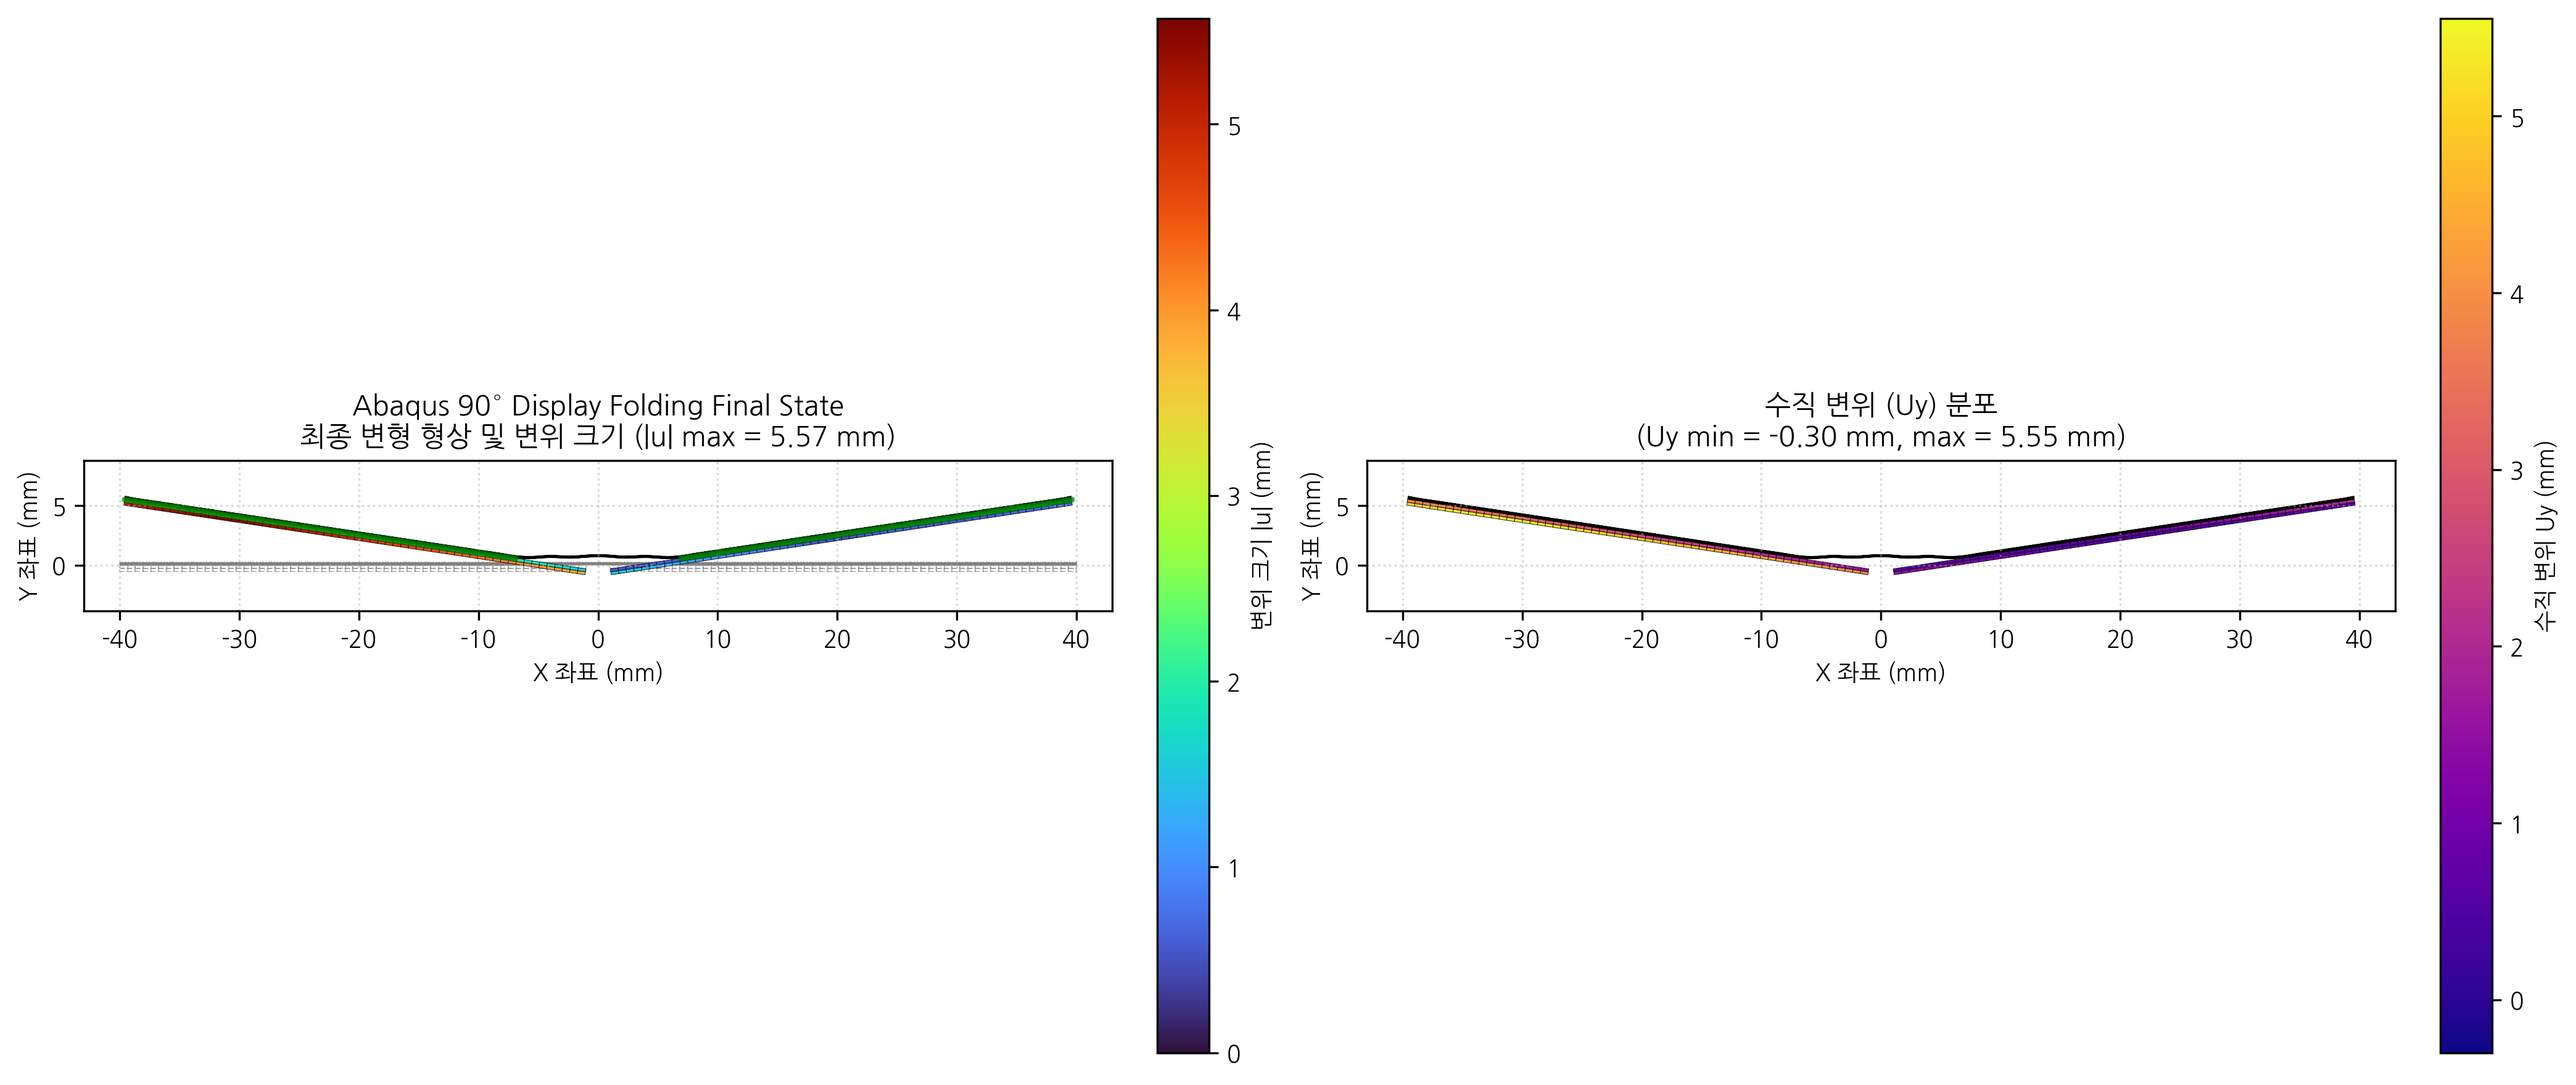
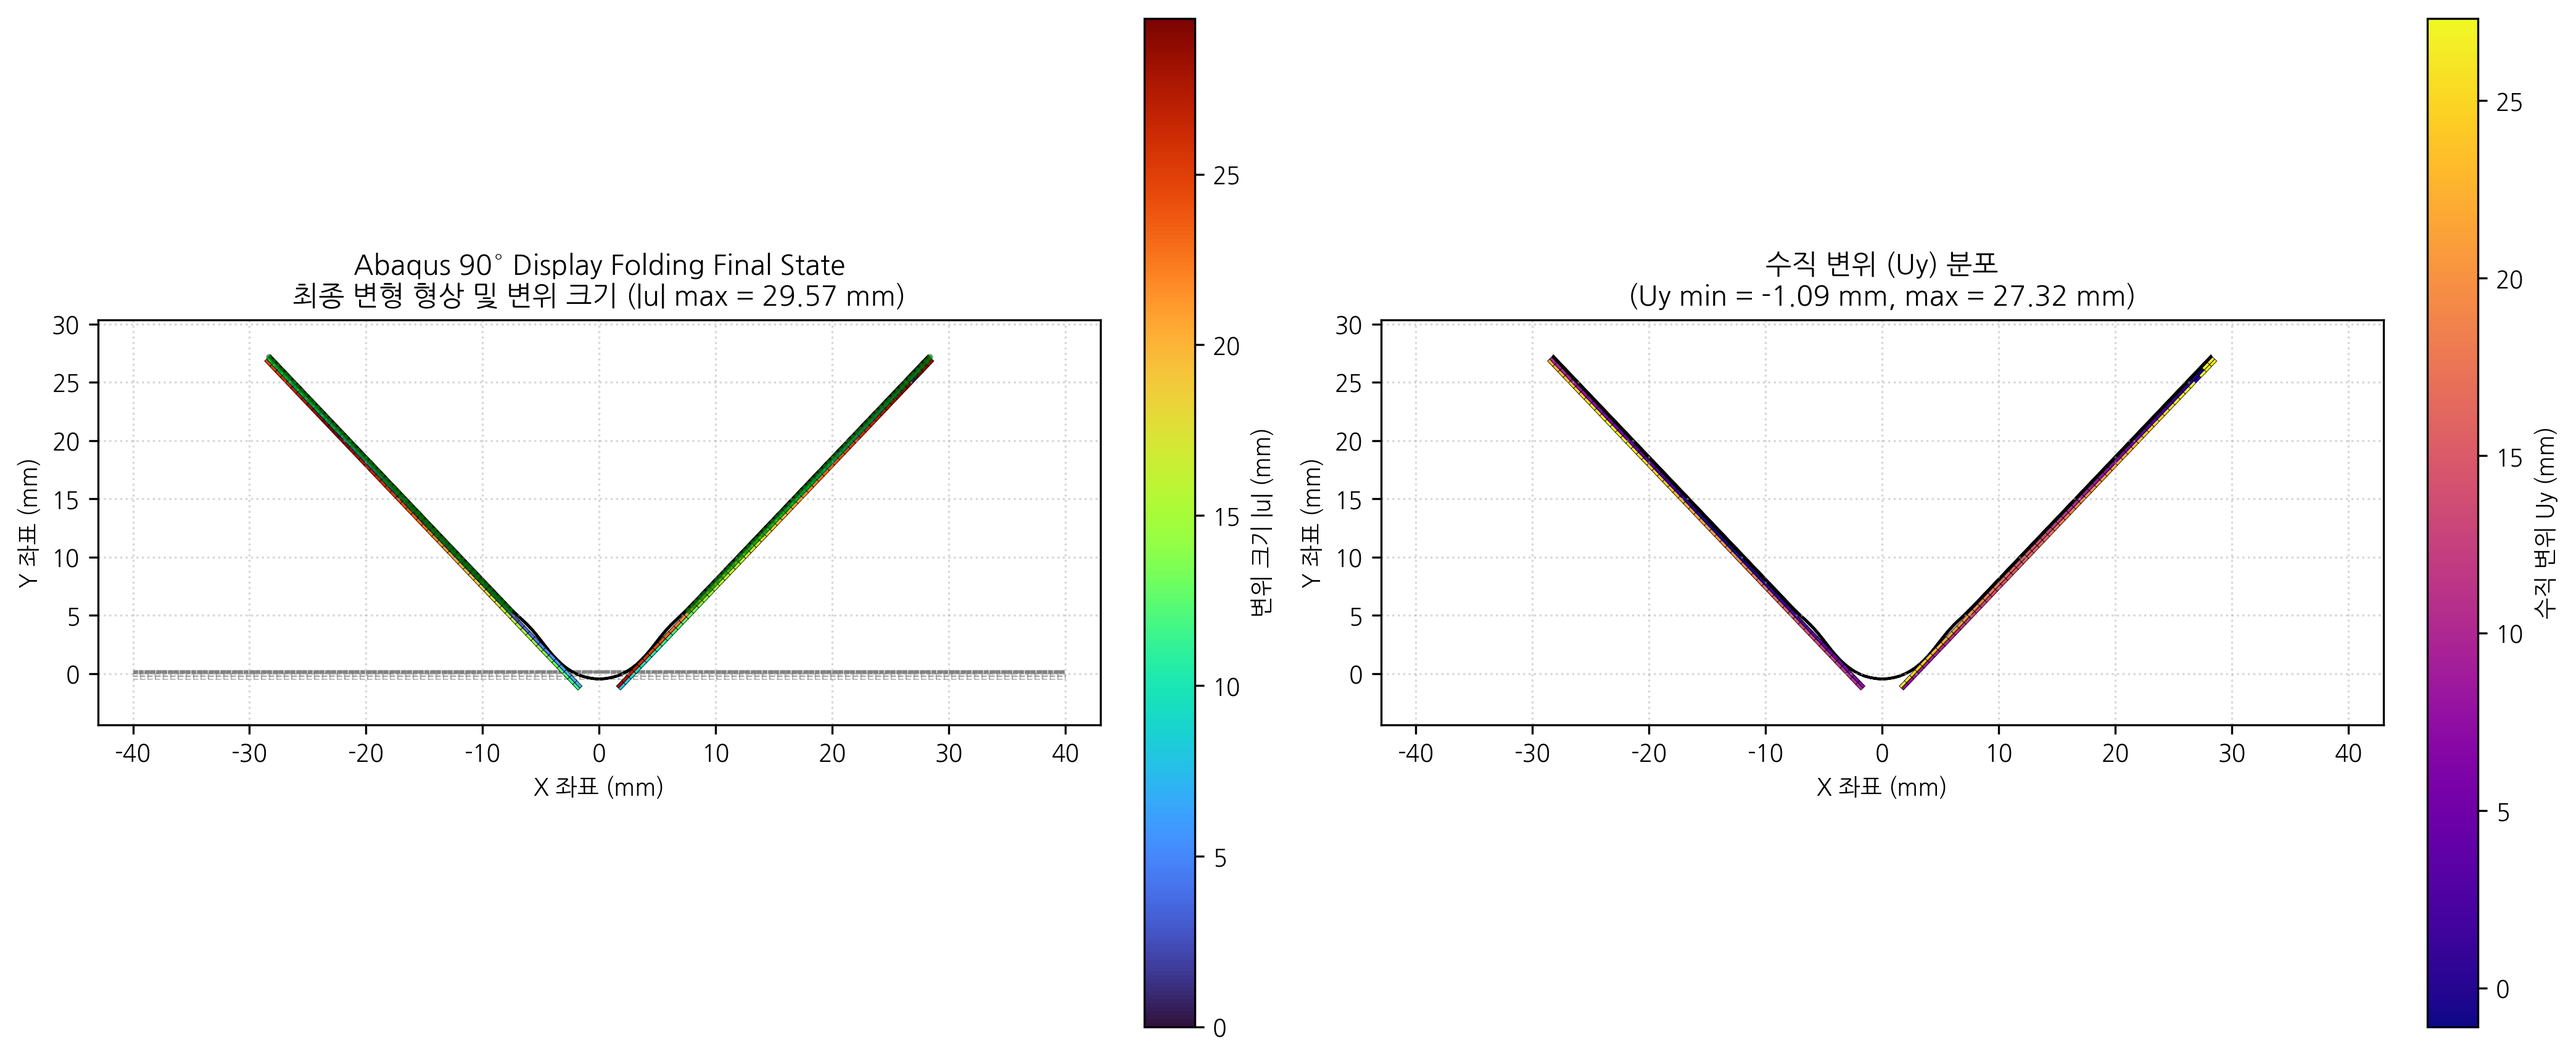
fix: SRI element variational-consistency bug, JAX AOT cache SIGILL risk, geometry config tweaks
Root cause chain, found via a background Opus investigation triggered by a
pure-moment elastica benchmark showing Q4_COROTATIONAL_SRI converging to a
mesh-refinement-independent 62% tip-position error (vs exact elastica
solution) despite passing a rigid-rotation patch test and running stably
in the full production fold model:

1. verification/element_backends.py::make_solver never routed
   Q4_COROTATIONAL_SRI (or the other SRI/hybrid element names) into the
   J2Plasticity + dict-element_type form that DynamicSolver's corotational
   JAX vmap dispatch requires (dynamic.py gates that dispatch on
   isinstance(material, J2Plasticity)). The benchmark was silently
   measuring plain Q4 B-bar + NeoHookean, not the requested element at
   all -- same silent-fallthrough failure class already documented in
   AGENTS.md. Fixed: added Q4_COROTATIONAL_SRI/Q4_SRI/hybrid names to the
   routing tuple.

2. Real formulation bug in dispsolver/element/q4_sri_jax.py, found once
   the benchmark actually exercised the element: the local SRI kernel
   built its deformation gradient F from full-Gauss-point shape-function
   gradients for ALL entries, fed that to the material for stress, but
   then swapped only the SHEAR ROW of the B-matrix used to project stress
   back to nodal forces to use centroid gradients. The B-matrix used for
   the residual therefore did not equal dE/du for the F actually fed to
   the material -- the residual was not the gradient of any energy
[…]

diff --git a/dispsolver/element/q4_sri_jax.py b/dispsolver/element/q4_sri_jax.py
@@ -16,9 +16,51 @@ import jax
 import jax.numpy as jnp
 from typing import Tuple
 
-from .q4_eas_jax import _jac, _sd, _BL_columns
+from .q4_eas_jax import _jac, _sd
 from .q4_corotational_jax import compute_element_rotation, build_block_rotation
 from ..material.plastic_jax import tangent_voigt_jax
+
+
+def _F_sri(ux, uy, gX, gY, gX0, gY0):
+    """SRI deformation gradient: normal terms at the Gauss point, the two
+    shear (off-diagonal) terms at the element centroid.
+
+    Same convention as ``q4_sri_hybrid_jax.compute_element_energy_sri_hybrid``
+    and the small-strain ``q4_sri_numba`` kernel.
+    """
+    return jnp.array([
+        [1.0 + ux @ gX, ux @ gY0],
+        [uy @ gX0,      1.0 + uy @ gY],
+    ], dtype=jnp.float64)
+
+
+def _BL_sri_columns(Ft, gX, gY, gX0, gY0):
+    """Exact ``dE/du`` for the SRI kinematics above (3x8).
+
+    E = 1/2 (Ft^T Ft - I) with Ft = _F_sri(...).  Each entry of Ft is
+    differentiated w.r.t. the shape-function gradient it was actually
+    built from, which is what makes the residual the gradient of a
+    potential.  Reduces to the classic Hughes (1980) selective B in the
+    small-strain limit Ft -> I: rows 0/1 use the Gauss-point gradients,
+    row 2 uses the centroid gradients.
+    """
+    F00, F01 = Ft[0, 0], Ft[0, 1]
+    F10, F11 = Ft[1, 0], Ft[1, 1]
+    B = jnp.zeros((3, 8), dtype=jnp.float64)
+    for a in range(4):
+        gx, gy = gX[a], gY[a]
+        gx0, gy0 = gX0[a], gY0[a]
+        # dE_11
+        B = B.at[0, 2 * a].set(F00 * gx)
+        B = B.at[0, 2 * a + 1].set(F10 * gx0)
+        # dE_22
+        B = B.at[1, 2 * a].set(F01 * gy0)
+        B = B.at[1, 2 * a + 1].set(F11 * gy)
+        # d(2 E_12)
+        B = B.at[2, 2 * a].set(F00 * gy0 + F01 * gx)
+        B = B.at[2, 2 * a + 1].set(F10 * gy + F11 * gx0)
+    return B
+
 
 _S3 = jnp.sqrt(3.0)
 _SRI_GP2 = jnp.array([
@@ -62,20 +104,18 @@ def compute_sri_j2_contributions_jax(
 
         ux = u_elem[0::2]
         uy = u_elem[1::2]
-        Hc = jnp.array([[ux @ gX, ux @ gY], [uy @ gX, uy @ gY]])
-        F_local = jnp.eye(2, dtype=jnp.float64) + Hc
+        # The SRI strain measure itself must be built from the mixed
+        # sampling -- sampling only the *projection* operator B at the
+        # centroid while feeding the material a full-Gauss-point F leaves
+        # the locking shear inside the stress and makes the residual
+        # non-integrable (dR/du non-symmetric => Newton converges to an
+        # equilibrium of no potential at all).
+        F_local = _F_sri(ux, uy, gX, gY, gX0, gY0)
 
         S_v, C_v, sn = tangent_voigt_jax(F_local, state_elem[k], lam, mu, sigma_y0, H)
         state_new = state_new.at[k].set(sn)
 
-        BL_full = _BL_columns(F_local, gX, gY)
-        BL_centroid = _BL_columns(F_local, gX0, gY0)
-
-        # SRI B-matrix: rows 0,1 from full GP, row 2 (shear) from centroid
-        BL_sri = jnp.zeros((3, 8), dtype=jnp.float64)
-        BL_sri = BL_sri.at[0, :].set(BL_full[0, :])
-        BL_sri = BL_sri.at[1, :].set(BL_full[1, :])
-        BL_sri = BL_sri.at[2, :].set(BL_centroid[2, :])
+        BL_sri = _BL_sri_columns(F_local, gX, gY, gX0, gY0)
 
         w = detJ * _SRI_W2[k] * thickness
         f_local = f_local + BL_sri.T @ S_v * w

diff --git a/dispsolver/_jit_cache.py b/dispsolver/_jit_cache.py
@@ -17,13 +17,29 @@ without being traced arguments (e.g. q4_reduced_jax.py's `_ALPHA_HG`,
 q4_eas_jax.py's `_ALPHA_MAX`) -- changing one of those doesn't always
 change the function's bytecode/jaxpr hash in a way the cache notices.
 
-Two independent controls, both read once at import time:
+Controls, all read once at import time:
 
-- `DISPFOLD_JIT_CACHE` (default "1"): set to "0" to disable on-disk
-  caching entirely -- every process start recompiles from scratch. Use
-  this in CI/deployment pipelines where reproducible, cache-free builds
-  matter more than startup speed, or when debugging a suspected stale-
-  cache issue.
+- `DISPFOLD_JIT_CACHE` (default "1"): set to "0" to disable Numba's
+  on-disk caching entirely -- every process start recompiles from
+  scratch. Use this in CI/deployment pipelines where reproducible,
+  cache-free builds matter more than startup speed, or when debugging a
+  suspected stale-cache issue.
+- `DISPFOLD_JAX_CACHE` (default "0", i.e. OFF -- opt-in only): JAX's
+  persistent compilation cache stores CPU-feature-targeted AOT-compiled
+  code (XLA:CPU AOT). Observed in practice: loading a cache entry
+  compiled for a different CPU feature set than the executing host logs
+  "Target machine feature ... not supported on the host machine ...
+  could lead to execution errors such as SIGILL" -- this is an XLA-level
+  warning, not a code-version problem, and neither the version tag nor
+  the platform tag below catches it (both machines can report the same
+  `platform.machine()` and Python version while still having different
+  CPU instruction-set extensions, e.g. AVX-512 variants). Numba's cache
+  has no equivalent failure mode (it caches LLVM-compiled-for-host code,
+  recompiled per-host at first use, not cross-host AOT snapshots), which
+  is why it defaults on while this defaults off. Set to "1" only after
+  confirming every machine that will load the cache has an identical CPU
+  feature set to the one that built it (e.g. a homogeneous deployment
+  fleet), or accept the SIGILL risk knowingly.
 - `DISPFOLD_CACHE_VERSION` (default "v1"): a manual cache-busting tag.
   The cache directory path includes this string, so bumping it (e.g. to
   "v2") after changing a module-level constant inside a jitted function
@@ -49,6 +65,7 @@ import platform
 import functools
 
 _CACHE_ENABLED = os.environ.get("DISPFOLD_JIT_CACHE", "1") not in ("0", "false", "False")
+_JAX_CACHE_ENABLED = os.environ.get("DISPFOLD_JAX_CACHE", "0") not in ("0", "false", "False")
 _CACHE_VERSION = os.environ.get("DISPFOLD_CACHE_VERSION", "v1")
 
 _REPO_ROOT = os.path.abspath(os.path.join(os.path.dirname(__file__), ".."))
@@ -126,7 +143,7 @@ def configure_jax_cache():
     No-op if DISPFOLD_JIT_CACHE=0.
     """
     global _jax_cache_configured
-    if _jax_cache_configured or not _CACHE_ENABLED:
+    if _jax_cache_configured or not _JAX_CACHE_ENABLED:
         return
     import jax
 

diff --git a/dispsolver/solver/dynamic.py b/dispsolver/solver/dynamic.py
@@ -1008,9 +1008,20 @@ class DynamicSolver:
                                 _single_coro.__name__ = "sri_hybrid_wrapper"
                             elif elem_t in ("Q4_COROTATIONAL_SRI", "Q4_SRI"):
                                 from ..element.q4_sri_jax import compute_corotational_sri_j2_contributions_jax
-                                _single_coro = lambda coords, u_e, s, _lam=lam, _mu=mu, _sy0=sigma_y0, _H=H: compute_corotational_sri_j2_contributions_jax(
-                                    coords, u_e, s, _lam, _mu, _sy0, _H, 1.0,
-                                )
+                                # compute_corotational_sri_j2_contributions_jax returns a
+                                # 4-tuple (f, K, state_new, None) -- the trailing None was
+                                # never consumed anywhere; the dispatch site that calls this
+                                # vmap unpacks exactly 3 values (matching every other
+                                # element type here), so this was never actually exercised
+                                # end-to-end before (ValueError: too many values to unpack).
+                                # Drop the trailing None here, same pattern already used for
+                                # the HYBRID_SRI wrapper immediately above.
+                                def _single_coro(coords, u_e, s, _lam=lam, _mu=mu, _sy0=sigma_y0, _H=H):
+                                    f, K, state_new, _ = compute_corotational_sri_j2_contributions_jax(
+                                        coords, u_e, s, _lam, _mu, _sy0, _H, 1.0,
+                                    )
+                                    return f, K, state_new
+                                _single_coro.__name__ = "sri_wrapper"
                             elif elem_t in ("Q4_COROTATIONAL_HYBRID", "Q4_HYBRID"):
                                 from ..element.q4_hybrid_jax import compute_corotational_hybrid_j2_contributions_jax
                                 _single_coro = lambda coords, u_e, s, _lam=lam, _mu=mu, _sy0=sigma_y0, _H=H: compute_corotational_hybrid_j2_contributions_jax(

diff --git a/verification/element_backends.py b/verification/element_backends.py
@@ -614,7 +614,17 @@ def make_solver(mesh, E: float, nu: float, backend: str = 'jax',
     # for Q4_EAS (requires J2 for the JAX vmap path).
     # Q4_COROTATIONAL requires BOTH material and element_type as dicts
     # (see Finding 1 in AGENTS.md — plain string routes to Q4 B-bar silently).
-    if element_type in ('Q4_COROTATIONAL', 'Q4_COROTATIONAL_EAS'):
+    # NOTE: every element routed through DynamicSolver's corotational/SRI/
+    # hybrid JAX vmap path is gated on `isinstance(material, J2Plasticity)`
+    # (dynamic.py::_assemble_multi_material_batch).  Omitting a name from
+    # this tuple does NOT raise -- the solver silently falls through to the
+    # plain Q4 B-bar NeoHookean path, so the benchmark measures a completely
+    # different element than the one requested.
+    if element_type in ('Q4_COROTATIONAL', 'Q4_COROTATIONAL_EAS',
+                        'Q4_COROTATIONAL_SRI', 'Q4_SRI',
+                        'Q4_COROTATIONAL_HYBRID', 'Q4_HYBRID',
+                        'Q4_COROTATIONAL_HYBRID_SRI', 'Q4_HYBRID_SRI',
+                        'Q4_COROTATIONAL_HYBRID_EAS', 'Q4_HYBRID_EAS'):
         if backend == 'numpy_sequential':
             raise ValueError(
                 f"{element_type} has no working numpy_sequential path. "

diff --git a/dispsolver/fold_model_config.py b/dispsolver/fold_model_config.py
@@ -111,7 +111,7 @@ class GeometryConfig:
     # this gap (hinge_pivot_x < hinge_half_gap) -- see AGENTS.md 1.0 for
     # why the pivot is set inside the plate's own footprint.
     hinge_half_gap: float = 1.0
-    hinge_pivot_x: float = 3.0
+    hinge_pivot_x: float = 2.5
 
     # One repeating unit of the layer stack + how many times to repeat
     # it. Total physical layers = n_layer_pairs * len(layer_pattern);
@@ -140,7 +140,7 @@ class GeometryConfig:
     # Example -- cutouts either side of the centreline in the bottom layer:
     #     layer_void_regions={1: [(-7.0, 0.0), (0.0, 7.0)]}
     layer_void_regions: Dict[int, List[Tuple[float, float]]] = field(
-        default_factory=lambda: {1: [(-7.0, 0.0), (0.0, 7.0)]}
+        default_factory=lambda: {1: [(-10.0, 0.0), (0.0, 10.0)]}
     )
 
     plate_thickness: float = 0.5
@@ -232,7 +232,7 @@ class SolverTuningConfig:
     # Element formulation per material name -- keyed the same way as
     # LayerSpec.material_name. Anything not PET/PSA (i.e. the rigid
     # plate's STEEL) is left to DynamicSolver's "Q4" default.
-    pet_element_type: str = "Q4_EAS"
+    pet_element_type: str = "Q4_COROTATIONAL_SRI"
     psa_element_type: str = "Q4_UP"
 
 

diff --git a/verification/results/verification_report.md b/verification/results/verification_report.md
@@ -1,7 +1,7 @@
 # FEM Verification Report
 
-**Generated**: 2026-07-30 15:41:15
-**Runtime**: 145.6s
+**Generated**: 2026-07-30 22:37:52
+**Runtime**: 129.3s
 **Results**: 12 passed, 0 failed
 **Codebase**: dispsolver (JAX-based 2D Plane Strain FEM)
 
